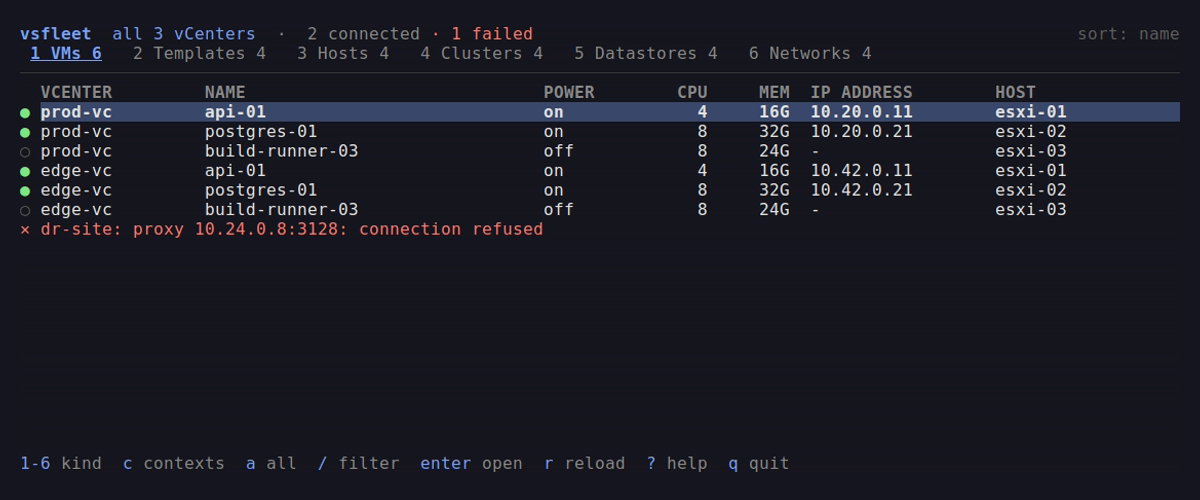
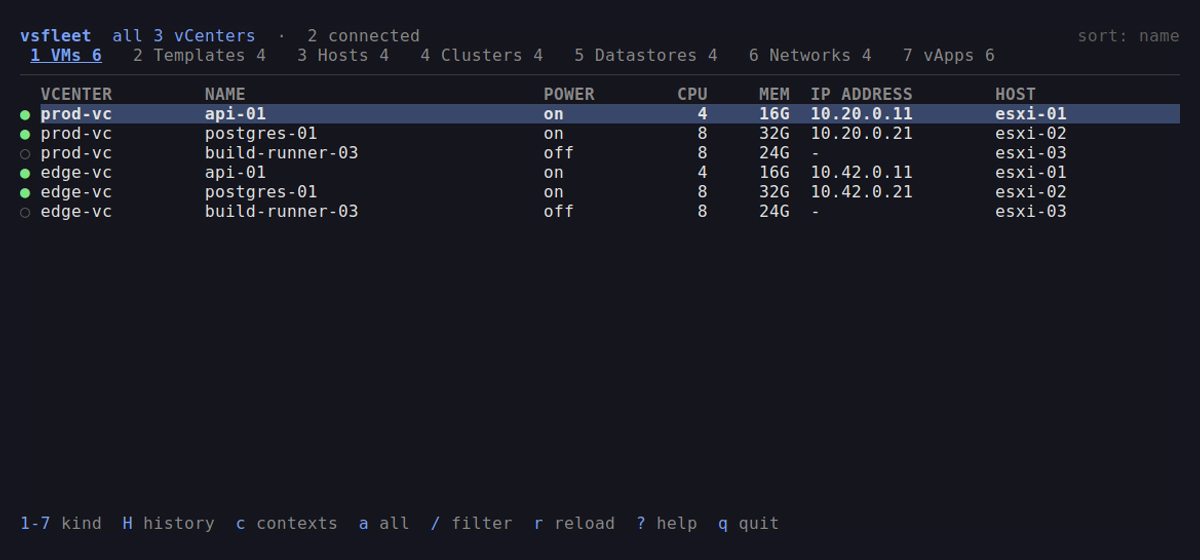
docs(demo): refresh feature tour recording
Changes:
- expand the VHS tour with assessment Changes, Trends, and Runs
- demonstrate VM and vApp details plus two-vCenter global search
- regenerate the GIF and fallback poster and update the accessible description

Motivation: the README recording predates assessment history, vApps, and the current multi-vCenter workflows.

Testing: testbed verification and the full Go suite passed; VHS validation and rendering passed; representative frames were inspected manually

diff --git a/README.md b/README.md
@@ -14,7 +14,7 @@
 <p align="center">
   <picture>
     <source media="(prefers-reduced-motion: reduce)" srcset="docs/assets/vsfleet.png">
-    <img src="docs/assets/vsfleet.gif" alt="vsfleet jumping between resource kinds across three vCenters, widening a filter into an estate-wide search, and diagnosing an unavailable site" width="1200">
+    <img src="docs/assets/vsfleet.gif" alt="vsfleet inspecting VM and vApp inventory across three vCenters, widening a filter into an estate-wide search, diagnosing an unavailable site, and reviewing assessment changes, trends, and runs" width="1200">
   </picture>
 </p>
 
